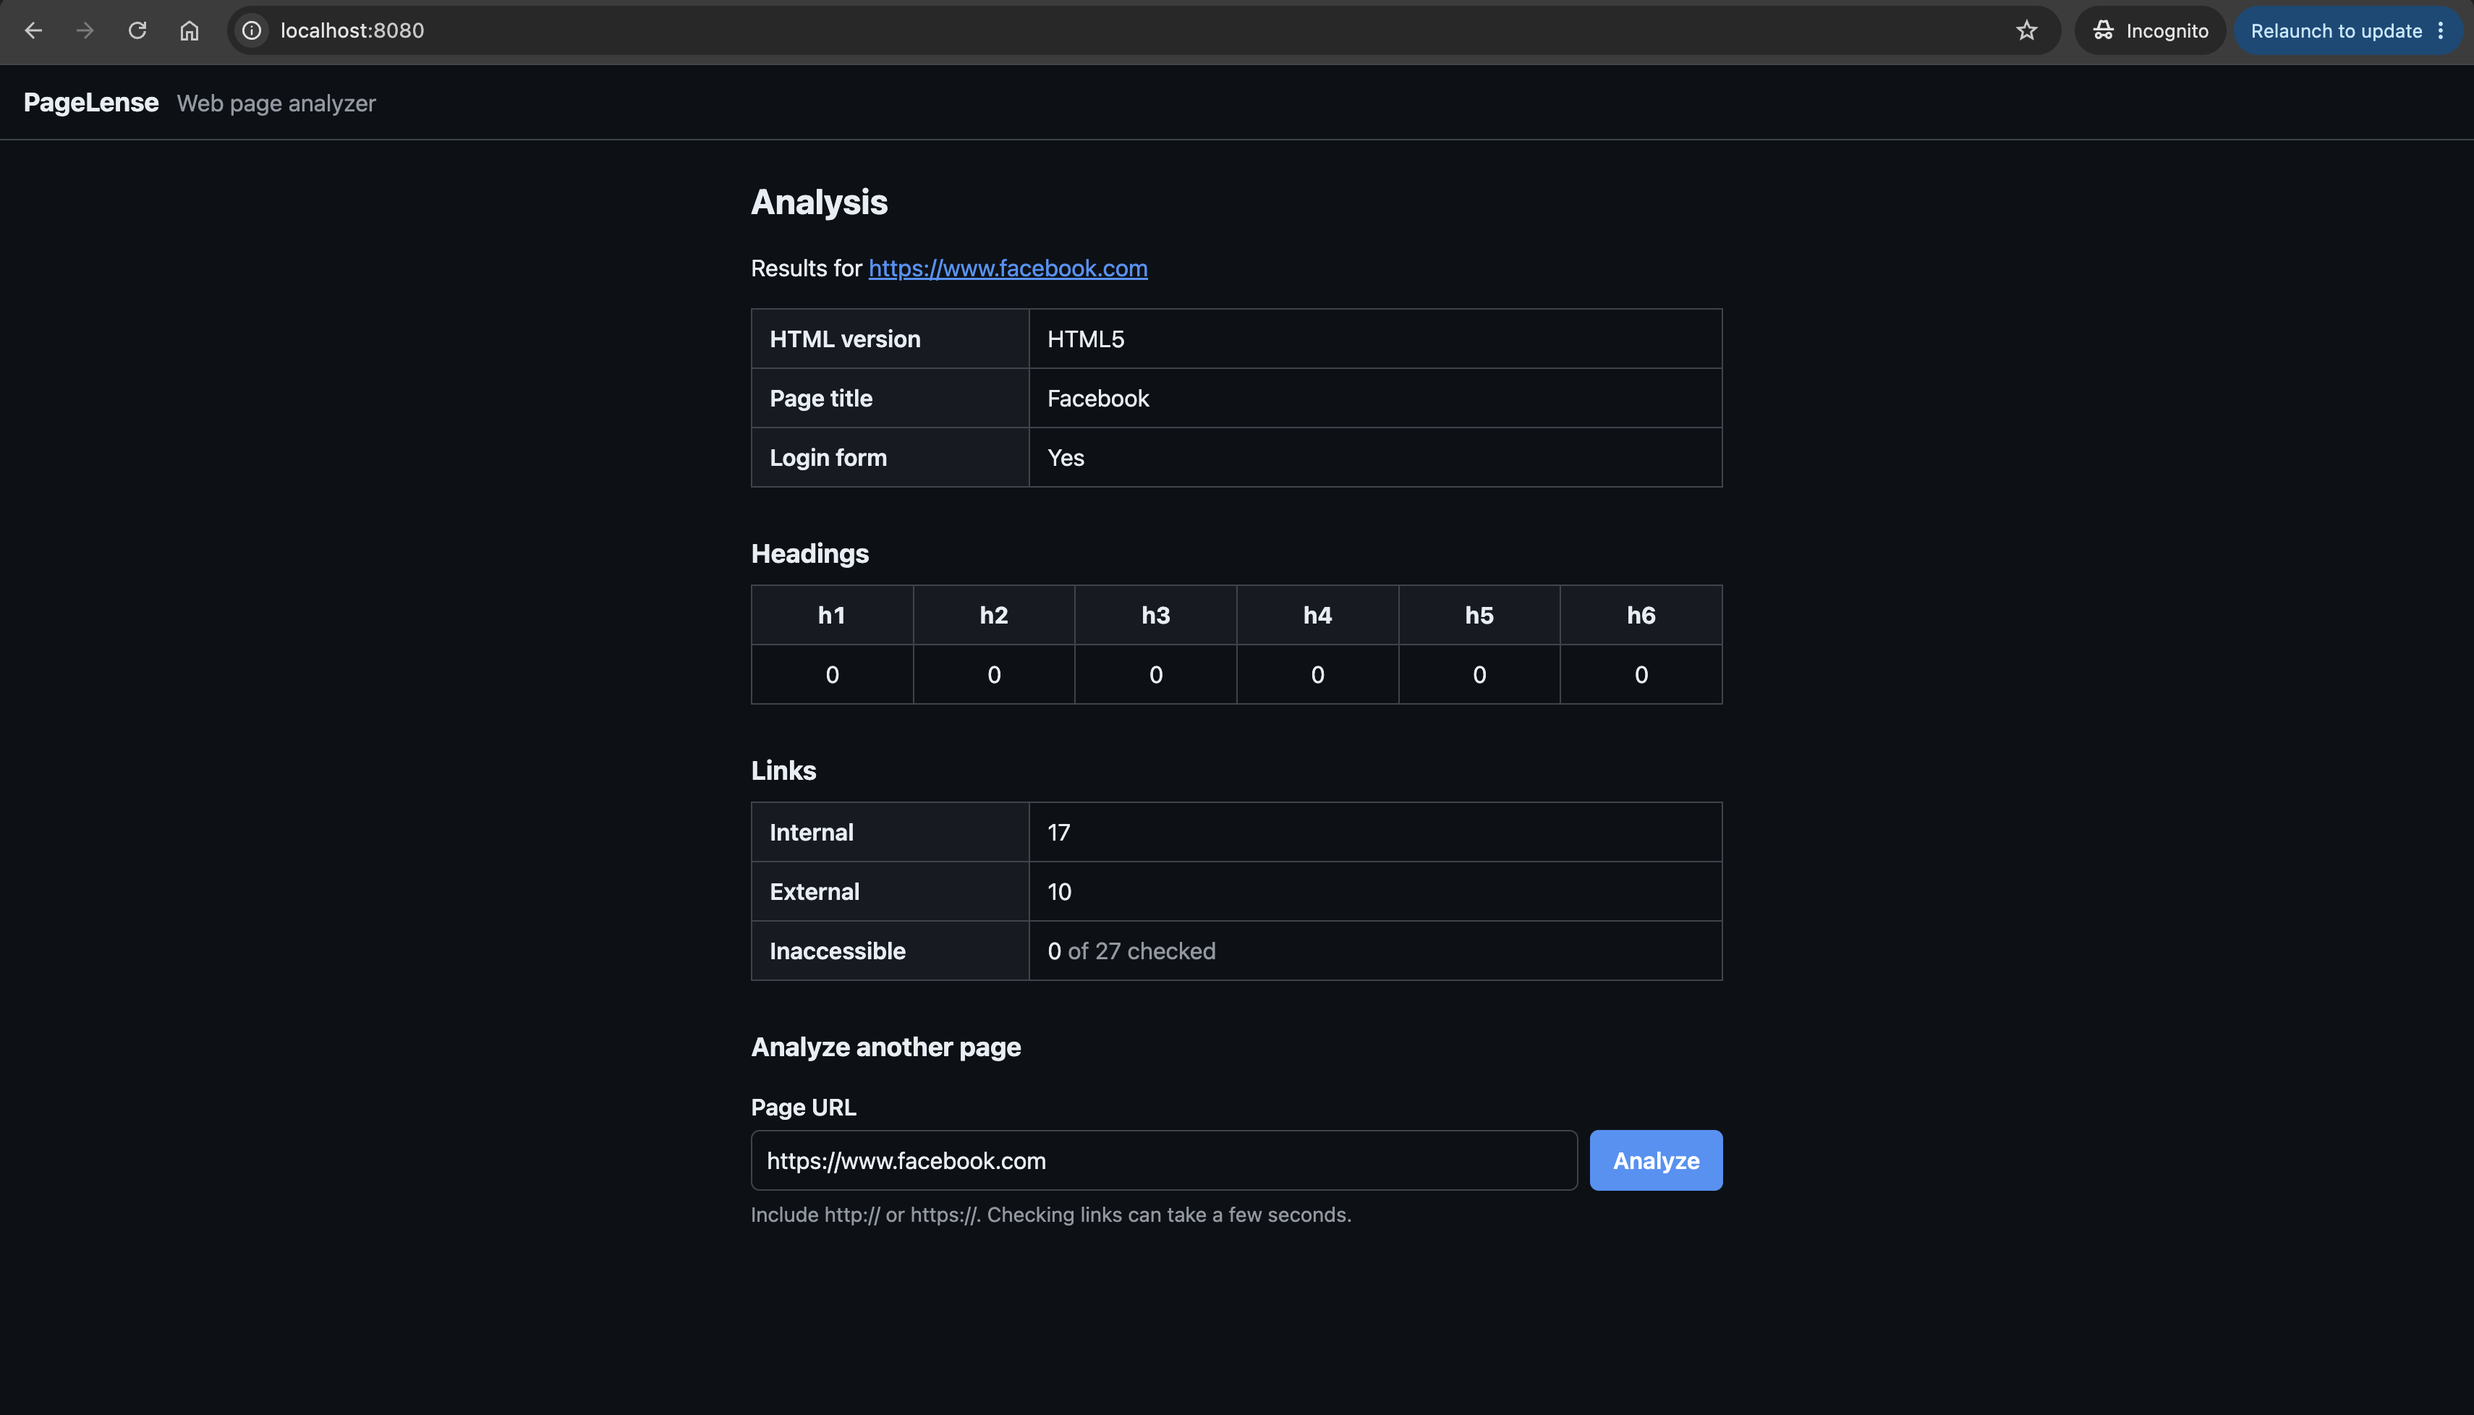
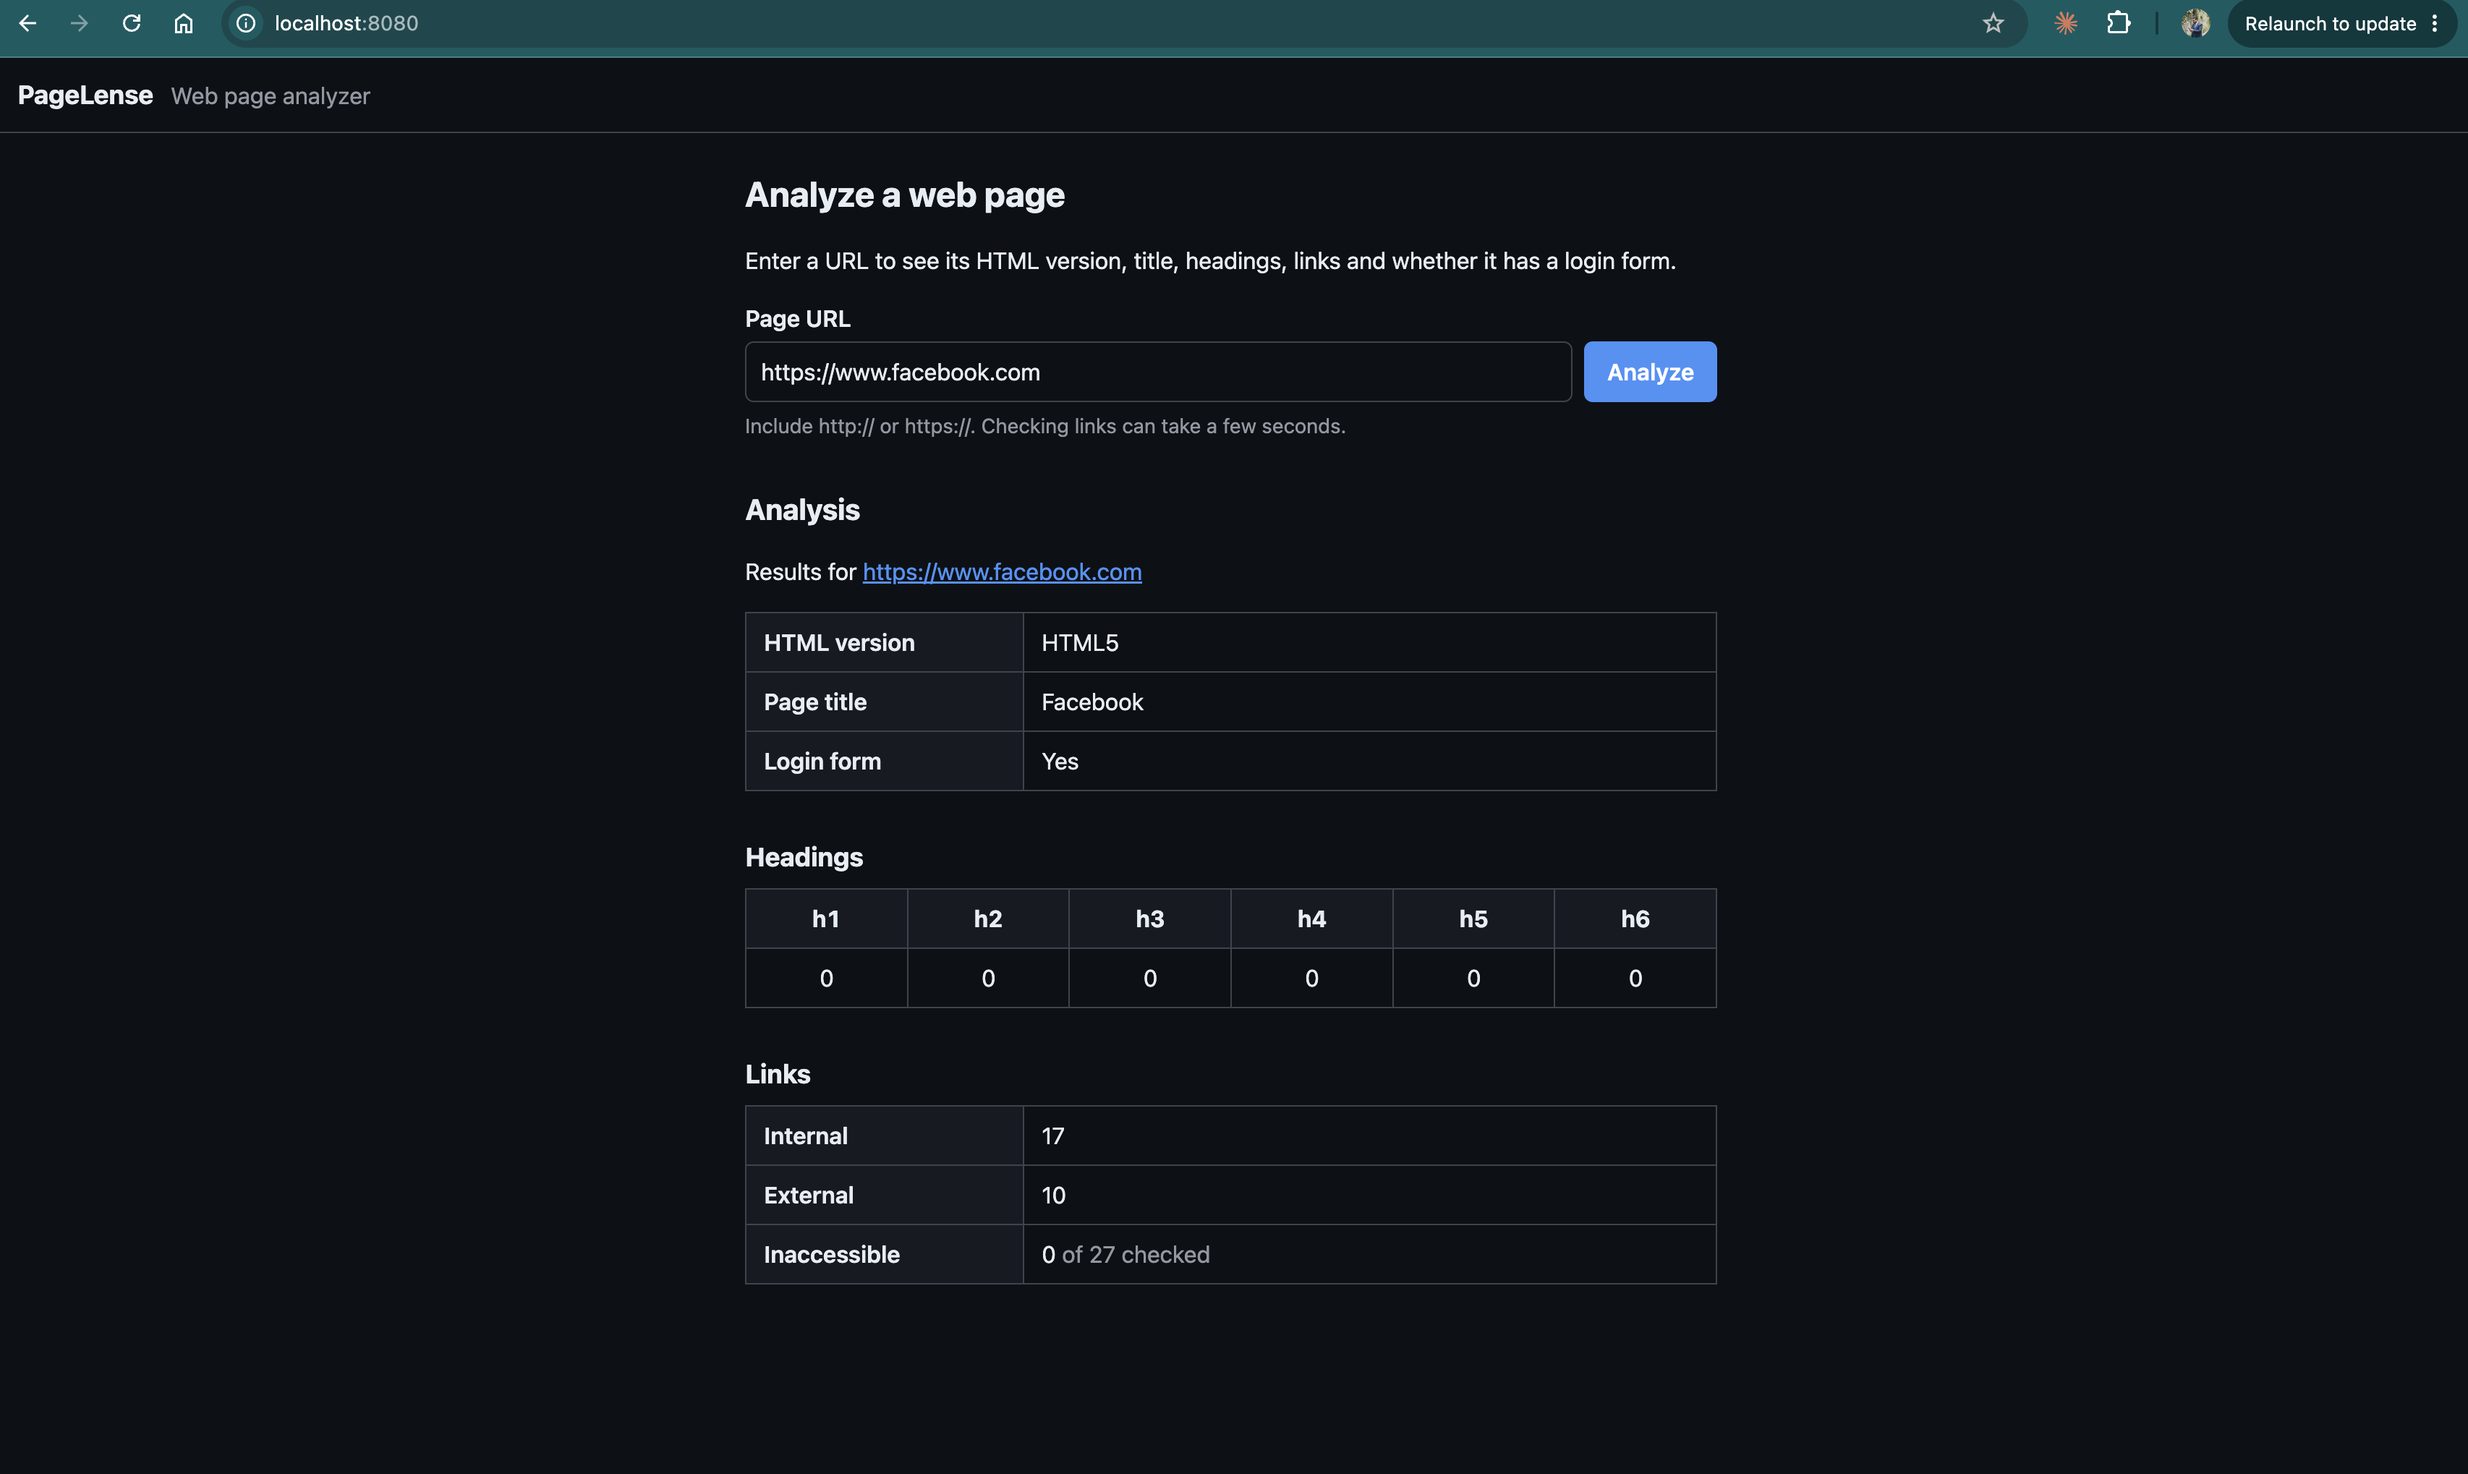
added UI improvements

diff --git a/web/templates/result.html b/web/templates/result.html
@@ -1,6 +1,9 @@
 {{define "content"}}
+{{template "intro" .}}
+
 {{with .Result}}
-<h1>Analysis</h1>
+<section class="results" aria-labelledby="results-heading">
+<h2 id="results-heading">Analysis</h2>
 <p class="analyzed">Results for <a href="{{.URL}}" rel="nofollow noopener noreferrer">{{.URL}}</a></p>
 
 <table class="summary">
@@ -9,20 +12,18 @@
   <tr><th scope="row">Login form</th><td>{{if .HasLoginForm}}Yes{{else}}No{{end}}</td></tr>
 </table>
 
-<h2>Headings</h2>
+<h3>Headings</h3>
 <table class="counts">
   <thead><tr><th>h1</th><th>h2</th><th>h3</th><th>h4</th><th>h5</th><th>h6</th></tr></thead>
   <tbody><tr><td>{{.Headings.H1}}</td><td>{{.Headings.H2}}</td><td>{{.Headings.H3}}</td><td>{{.Headings.H4}}</td><td>{{.Headings.H5}}</td><td>{{.Headings.H6}}</td></tr></tbody>
 </table>
 
-<h2>Links</h2>
+<h3>Links</h3>
 <table class="summary">
   <tr><th scope="row">Internal</th><td>{{.Links.Internal}}</td></tr>
   <tr><th scope="row">External</th><td>{{.Links.External}}</td></tr>
   <tr><th scope="row">Inaccessible</th><td>{{.Links.Inaccessible}} <span class="muted">of {{.Links.Checked}} checked</span></td></tr>
 </table>
+</section>
 {{end}}
-
-<h2>Analyze another page</h2>
-{{template "form" .}}
 {{end}}

diff --git a/web/static/app.js b/web/static/app.js
@@ -1,4 +1,4 @@
-// Submits the form with fetch and swaps the result into <main>; falls back to a normal post.
+// Submits the form with fetch and swaps the page into <main>, keeping the form on top and the result below it; falls back to a normal post.
 (() => {
   const main = document.querySelector("main");
   if (!main || !window.fetch) return;
@@ -23,12 +23,12 @@
       if (!(res.headers.get("Content-Type") || "").startsWith("text/html")) throw new Error("unexpected response");
       main.innerHTML = await res.text();
       main.removeAttribute("aria-busy");
-      const heading = main.querySelector("h1");
+      const heading = main.querySelector(".results h2");
       if (heading) {
         heading.tabIndex = -1;
-        heading.focus();
+        heading.focus({ preventScroll: true });
+        main.querySelector(".results").scrollIntoView({ block: "start" });
       }
-      window.scrollTo(0, 0);
     } catch {
       form.submit(); // does not fire "submit" again
     }

diff --git a/web/static/style.css b/web/static/style.css
@@ -69,8 +69,18 @@ h1 {
 }
 
 h2 {
+  font-size: 1.25rem;
+  margin: 0 0 0.5rem;
+}
+
+h3 {
   font-size: 1.125rem;
   margin: 2rem 0 0.5rem;
+}
+
+.results {
+  margin-top: 2rem;
+  scroll-margin-top: 1rem;
 }
 
 a {
@@ -157,7 +167,7 @@ button.loading::before {
   }
 }
 
-h1:focus {
+.results h2:focus {
   outline: none;
 }
 
@@ -206,7 +216,7 @@ td {
   color: var(--error-text);
 }
 
-.error h1 {
+.error h2 {
   font-size: 1.25rem;
 }
 

diff --git a/web/templates/error.html b/web/templates/error.html
@@ -1,7 +1,8 @@
 {{define "content"}}
-<section class="error" role="alert">
-  <h1>Error {{.Status}}{{with statusText .Status}} {{.}}{{end}}</h1>
+{{template "intro" .}}
+
+<section class="results error" role="alert">
+  <h2>Error {{.Status}}{{with statusText .Status}} {{.}}{{end}}</h2>
   <p>{{.Error}}</p>
 </section>
-{{template "form" .}}
 {{end}}

diff --git a/web/templates/layout.html b/web/templates/layout.html
@@ -19,6 +19,12 @@
 </html>
 {{end}}
 
+{{define "intro"}}
+<h1>Analyze a web page</h1>
+<p>Enter a URL to see its HTML version, title, headings, links and whether it has a login form.</p>
+{{template "form" .}}
+{{end}}
+
 {{define "form"}}
 <form class="analyze" method="post" action="/analyze">
   <label for="url">Page URL</label>

diff --git a/web/templates/index.html b/web/templates/index.html
@@ -1,5 +1,3 @@
 {{define "content"}}
-<h1>Analyze a web page</h1>
-<p>Enter a URL to see its HTML version, title, headings, links and whether it has a login form.</p>
-{{template "form" .}}
+{{template "intro" .}}
 {{end}}

diff --git a/internal/frontend/templates_test.go b/internal/frontend/templates_test.go
@@ -78,6 +78,9 @@ func TestResultPage(t *testing.T) {
 		`<td>2 <span class="muted">of 16 checked</span></td>`,
 		`value="https://example.com"`, // the form is ready for another analysis
 	)
+	if form, results := strings.Index(body, `<form class="analyze"`), strings.Index(body, `<section class="results"`); form > results {
+		t.Error("form should come before the results")
+	}
 	assertOnlyAppScript(t, body)
 }
 
@@ -97,8 +100,8 @@ func TestErrorPage(t *testing.T) {
 	}
 	body := w.Body.String()
 	assertContains(t, body,
-		`<section class="error" role="alert">`,
-		"<h1>Error 404 Not Found</h1>",
+		`<section class="results error" role="alert">`,
+		"<h2>Error 404 Not Found</h2>",
 		"<p>example.com returned 404 Not Found</p>",
 		`value="https://example.com/missing?q=&#34;&gt;&lt;b&gt;"`,
 	)
@@ -112,14 +115,14 @@ func TestErrorPageUnknownStatus(t *testing.T) {
 	fake := &fakeAnalyzer{err: &APIError{Status: 599, Message: "odd upstream"}}
 	body := postForm(newRealHandler(t, fake), url.Values{"url": {"https://example.com"}}).Body.String()
 
-	assertContains(t, body, "<h1>Error 599</h1>")
+	assertContains(t, body, "<h2>Error 599</h2>")
 }
 
 func TestResultPagePartial(t *testing.T) {
 	fake := &fakeAnalyzer{result: analyzer.Result{URL: "https://example.com", HTMLVersion: "HTML5"}}
 	body := postPartial(newRealHandler(t, fake), url.Values{"url": {"https://example.com"}}).Body.String()
 
-	assertContains(t, body, "<h1>Analysis</h1>", `<form class="analyze" method="post" action="/analyze">`)
+	assertContains(t, body, `<h2 id="results-heading">Analysis</h2>`, `<form class="analyze" method="post" action="/analyze">`)
 	for _, layout := range []string{"<!DOCTYPE", "<header>", "<main>", "<script"} {
 		if strings.Contains(body, layout) {
 			t.Errorf("partial page contains layout markup %q", layout)

diff --git a/README.md b/README.md
@@ -51,7 +51,7 @@ make lint
 
 ![pagelense architecture](docs/architecture.png)
 
-The services, packages and request flow are in **[docs/architecture.md](docs/architecture.md)**.
+The services, packages and request flow are in **[docs/architecture.md](docs/architecture.md#architecture)**.
 
 ## API
 
@@ -61,7 +61,7 @@ curl -X POST http://localhost:8081/api/v1/analyze \
   -d '{"url": "https://example.com"}'
 ```
 
-Endpoints, the response format and every error status are in **[docs/api.md](docs/api.md)**.
+Endpoints, the response format and every error status are in **[docs/api.md](docs/api.md#api)**.
 
 ## Testing
 
@@ -69,7 +69,7 @@ Endpoints, the response format and every error status are in **[docs/api.md](doc
 - 90.7% coverage (`make cover` fails under 70%)
 - 0 lint issues
 
-The per-package results, manual test cases with screenshots and API tests with Bruno are in **[docs/testing.md](docs/testing.md)**.
+The per-package results, manual test cases with screenshots and API tests with Bruno are in **[docs/testing.md](docs/testing.md#testing)**.
 
 ## Observability
 
@@ -77,7 +77,7 @@ The per-package results, manual test cases with screenshots and API tests with B
 - Prometheus metrics for requests, analysis time, link checks and backend errors
 - pprof on each service's admin port
 
-The logs, metrics, Prometheus setup and screenshots are in **[docs/observability.md](docs/observability.md)**.
+The logs, metrics, Prometheus setup and screenshots are in **[docs/observability.md](docs/observability.md#observability)**.
 
 ## How it works
 
